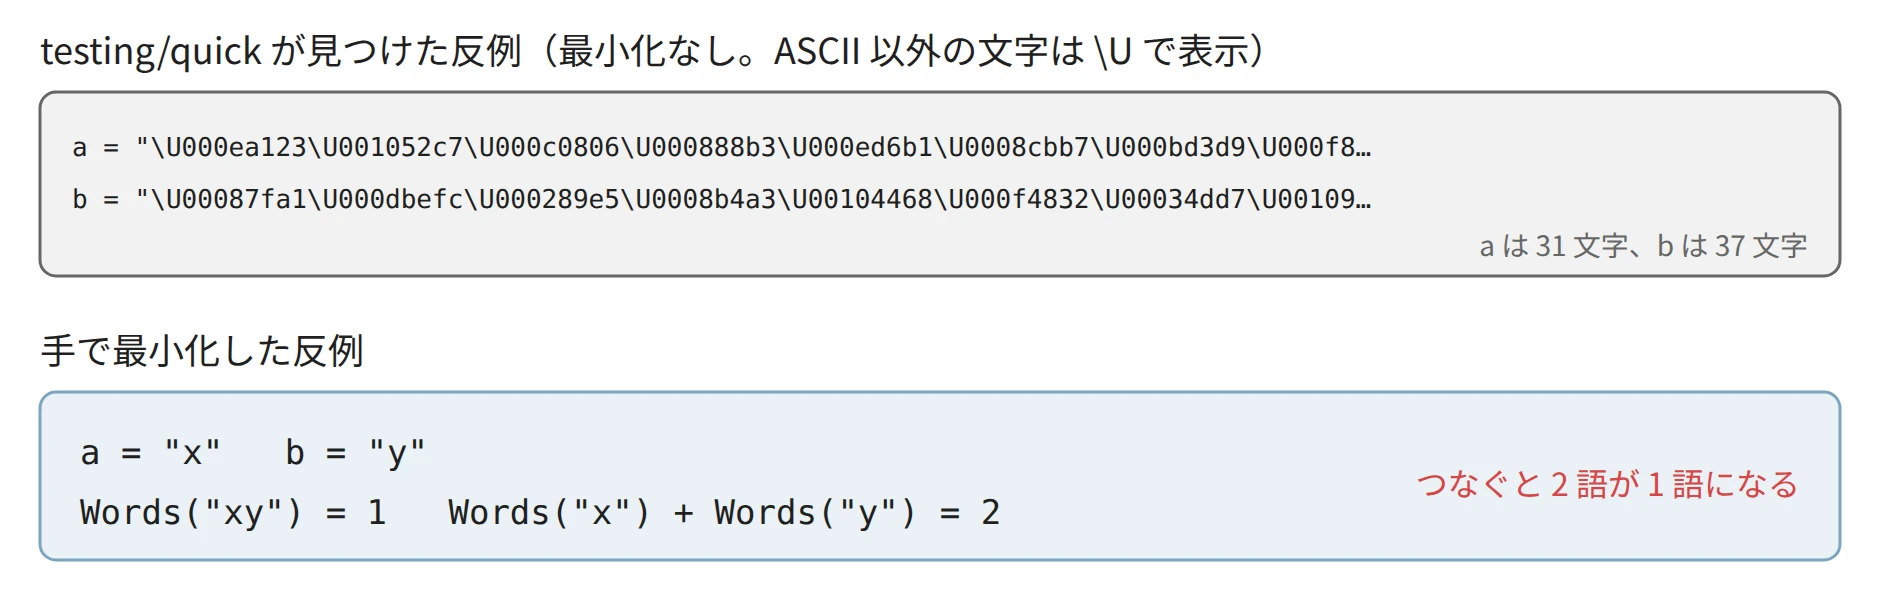
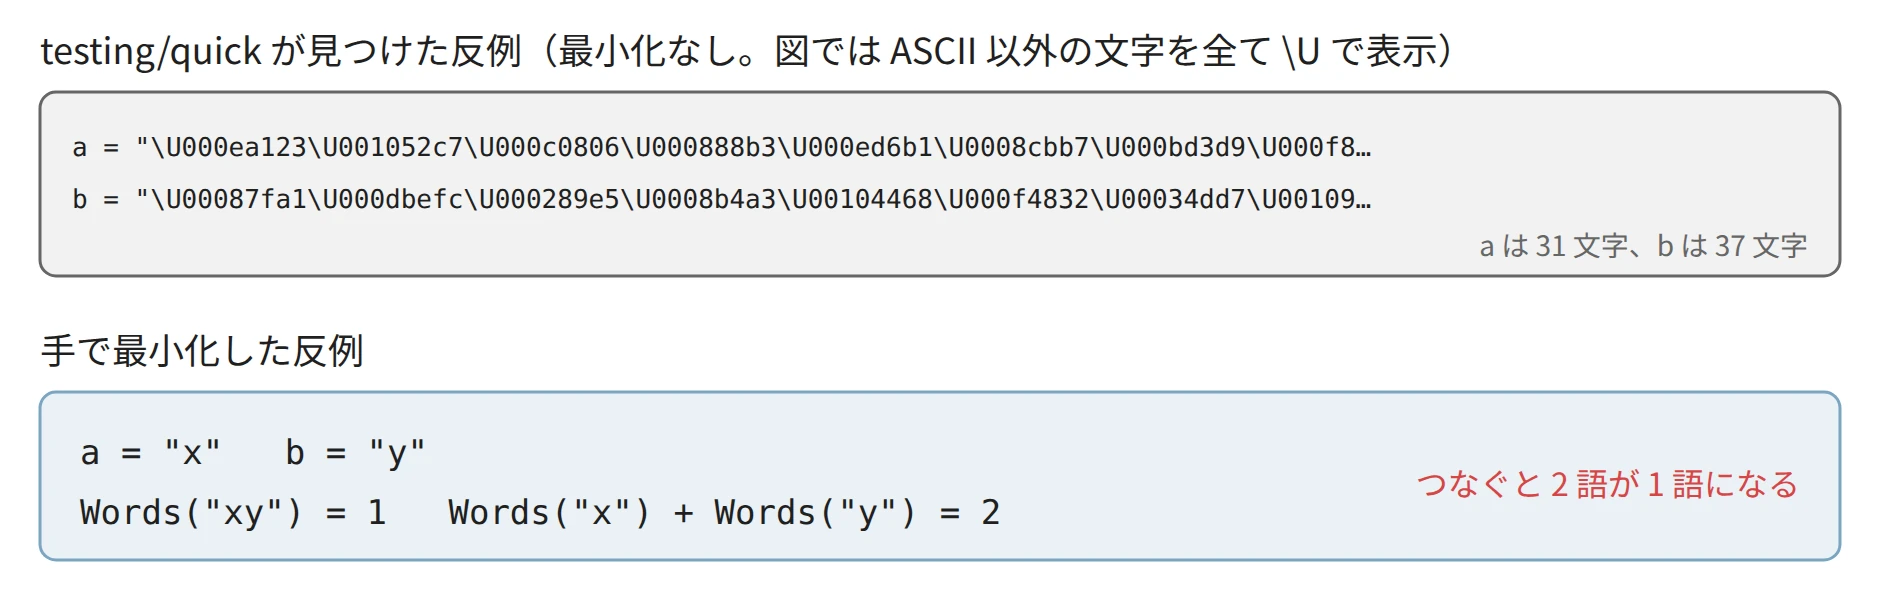
docs(notes): show the whole wc script in the metamorphic testing note and record the gate-v1 scores of the software testing notes

Changed region(s): [[0.4011, 0.06, 0.7713, 0.12]]

diff --git a/content/notes/software-testing/metamorphic-testing/figures.py b/content/notes/software-testing/metamorphic-testing/figures.py
@@ -104,7 +104,7 @@ def wc_relation_figure():
             red = extra_last and i == len(rows) - 1
             if red:
                 s.box(x + 6, y + 8 + i * 24, 278, 23, RED_PALE, RED, rx=4)
-            s.text(x + 14, y + 25 + i * 24, f'{{"filename":"{r["filename"]}", "lines":{r["lines"]}, …}}',
+            s.text(x + 14, y + 25 + i * 24, f'{{"lines":{r["lines"]}, …, "filename":"{r["filename"]}"}}',
                    mono, RED if red else INK, "start", mono=True)
 
     # 上段: 1 回で読む
@@ -208,7 +208,7 @@ def shrink_figure():
     a = ascii_only(lines[1].split(" = ", 1)[1])
     b = ascii_only(lines[2].split(" = ", 1)[1])
     s = Svg(940, 300)
-    s.text(20, 32, "testing/quick が見つけた反例（最小化なし。ASCII 以外の文字は \\U で表示）", 18, INK, "start")
+    s.text(20, 32, "testing/quick が見つけた反例（最小化なし。図では ASCII 以外の文字を全て \\U で表示）", 18, INK, "start")
     s.box(20, 46, 900, 92, FILL)
     s.text(36, 78, "a = " + a.split(" (")[0][:78] + "…", 13, INK, "start", mono=True)
     s.text(36, 104, "b = " + b.split(" (")[0][:78] + "…", 13, INK, "start", mono=True)

diff --git a/content/notes/software-testing/metamorphic-testing/lab/exp3_quick/main.go b/content/notes/software-testing/metamorphic-testing/lab/exp3_quick/main.go
@@ -1,4 +1,4 @@
-// 語数を数える関数で、連結の関係を testing/quick を使って検証する。
+// 語数を数える関数で、つないだ文字列の語数の関係を testing/quick を使って検証する。
 // 1 つ目の関係は誤りで、2 つ目が正しい関係。
 package main
 

diff --git a/notes-quality/checklists/software-testing__metamorphic-testing.md b/notes-quality/checklists/software-testing__metamorphic-testing.md
@@ -1,0 +1,27 @@
+# 完了のチェックリスト: software-testing/metamorphic-testing（2026-11-12 見直し）
+
+| 項目 | 結果（数値・回数・URL など） |
+|---|---|
+| Skill ツールで debimate-visual-notes を起動した | はい（メインと読解の確認の担当の両方） |
+| 読解の確認（初学者役の別エージェントが上から読む）の回数と、最後の判定（A/B/C）と残った指摘 | 2 回。1 回目 B（Words の関係の語のずれ、metamon の T と f、図の \U 表示と JSON のキー順、jz test の前置きなど 8 件）、2 回目 A。残った任意の 3 件（Go のコメントの語、括弧の多い段落、uutils の段落の出だし）も直した |
+| 事実確認（一次資料と照合。別エージェントか自分か）と、直した件数 | 自分。今回足した主張を照合: metamon の idempotency_of と forall_morph の引数（metamon の src/metamon.gleam）、testing/quick が 0〜0x10FFFF から文字を選ぶ（Go の src/testing/quick/quick.go）。誤り 0 件。既存部分は執筆時の事実確認済み |
+| 文体の照合: omokage nao-tech の点数と、本人の実文（最近の記事・weeknotes）と比べて直した言い回しの例 | 90%。「確かめる」→「調べる」（本人の実文で確かめ 2 件、確認 343 件）、列挙を「〜を付ける、〜にする、…です」から名詞の並びに |
+| 表記: 太字 0、「を、」0、ユーザー/サーバー/ブラウザ等の表記、形式名詞 | 太字 0、「を、」0（style_check.sh で 1 件直した）、表記は check_note.py で OK |
+| 図: 全て WebP、背景が白、図の文字に太字なし、caption と alt あり | 4 枚とも WebP・白背景・caption と alt あり |
+| 図の入れ方（scripts/textruns.py の結果）: 700 字以上の文字だけの区間 0 個、200 字超の段落は基準の Wallet（5 個）並み。長さは削らなくてよいが、文字だけの区間は図か区切りで割る | 700 字以上の区間 0、200 字超の段落 5 → 1 個（話題の切れ目で 4 か所分けた） |
+| 図の中の文字は日本語（コードの識別子・仕様の固有名・単位を除く）。英語のラベルが残っていない | 残っていない。英語は jz の JSON・コマンド・Go の出力だけ。check_note.py の誤検出（行をまたぐ正規表現）は関門を直し decisions.md に記録 |
+| 図ごとの確認（別エージェントの読解の確認で、図 1 枚ずつ）: (1) 理解を促すか（読者が何を掴めるか、文章の言い直しでないか）、(2) 公式の図・実画面を出典付きで引用した方が伝わらないか、(3) 文章と食い違っていないか（用語・数値・要素） | 4 枚とも実施。wc_relation の JSON のキー順と quick_shrink の \U の注記が出力と食い違っていたので図を直した。引用の方が良い図は無し |
+| 図のラベルと本文の用語の併記（図の直後の初出） | 変換 T・関係 R・f(x) を図の直後の段落で本文と対応させている。metamon の節で T と f の対応を追記 |
+| 冒頭の型（フラット/場面/結果/誤解/問い）と選んだ理由 | 結果（jz run wc の関係が破れる図を定義の直後に置く。実験の結果が記事の中心のため） |
+| 面白さの 4 因子（意外性・具体性・独自性・関連性、各 0〜3）と、その根拠（冒頭か本筋のどこにあるか） | 意外性 3（冒頭の図: 合計行が total というファイルとして 1 件増える）、具体性 3（手元の 3 実験と jsonize の 99,365 件・617 個・4 定義）、独自性 3（著者の OSS のトークン感度と 13 件の関係の誤り）、関連性 2（正解を書けない処理を持つ人の場面は一般的） |
+| 読者の場面（使おうとしている人 / 出会った人）と、書く前に挙げた「最初に知りたい問い」の箇条書き | 使おうとしている人。問いは本文の 5 つ（何を基準に・関係とは・何が見つかる・どう見つける・失敗時に何が悪いか） |
+| 結び: 利点・欠点の型で閉じていないか。閉じるなら、比べて選ぶのが核心の題材である理由 | 型で閉じていない。失敗の原因の切り分け（関係・実装・仕様）と、まず 1 つ関係を挙げて試す、で閉じる |
+| 同じ題材の人気記事を見たか（はてブ・HN）と、取り入れた切り口 | 見た（popular.py）。HN の Hillel Wayne「Metamorphic Testing」54 points は実例中心の入門、はてブは書籍紹介。本記事も実例と実験が主筋で構成は変えない |
+| 実験の図: 実験ごとに図があるか、図のラベル・数値がコードの出力と一致するか | 実験 1〜3 に図あり。exp1 のスクリプトを本文に全体で載せ、lab と一致（読解の確認で照合） |
+| 前置き無しの固有名詞（EIP 番号・フォーク名・関数名・版）が無いこと | 無い。jz run・metamon・testing/quick は初出で説明 |
+| 版・digest・計測中の負荷の断り書きを本文から lab か details へ移したこと | 本文に残る版は結論に要るもの（jsonize v0.9.1 の定義数、GNU coreutils 9.2 の --total、9.7 のロケール）だけ |
+| 相互リンク: 他のノートへ足した数、逆向きに足すべきリンクの提案 | Fuzzing のノートへ 1 本足した（乱数の入力の文）。全 214 本の一覧と照らし、他に範囲の合うノートは無かった |
+| 内部リンクが全て実在、外部リンクが 200 | 内部 3 本実在（hugo のビルドで確認）、外部リンクは執筆時に確認済み |
+| PC 幅 1280 とダークモードで撮影して確かめた（スマホは横はみ出しだけ） | 撮影した（.note-review/work/shots）。横はみ出し 0、壊れた画像 0 |
+| ページと /notes/ が 200 | 200 |
+| 本文の字数（前 → 後） | 読者向け本文 12,159 → 12,940 字（exp1 のスクリプトを全体で載せ、定義の文を足したため） |
